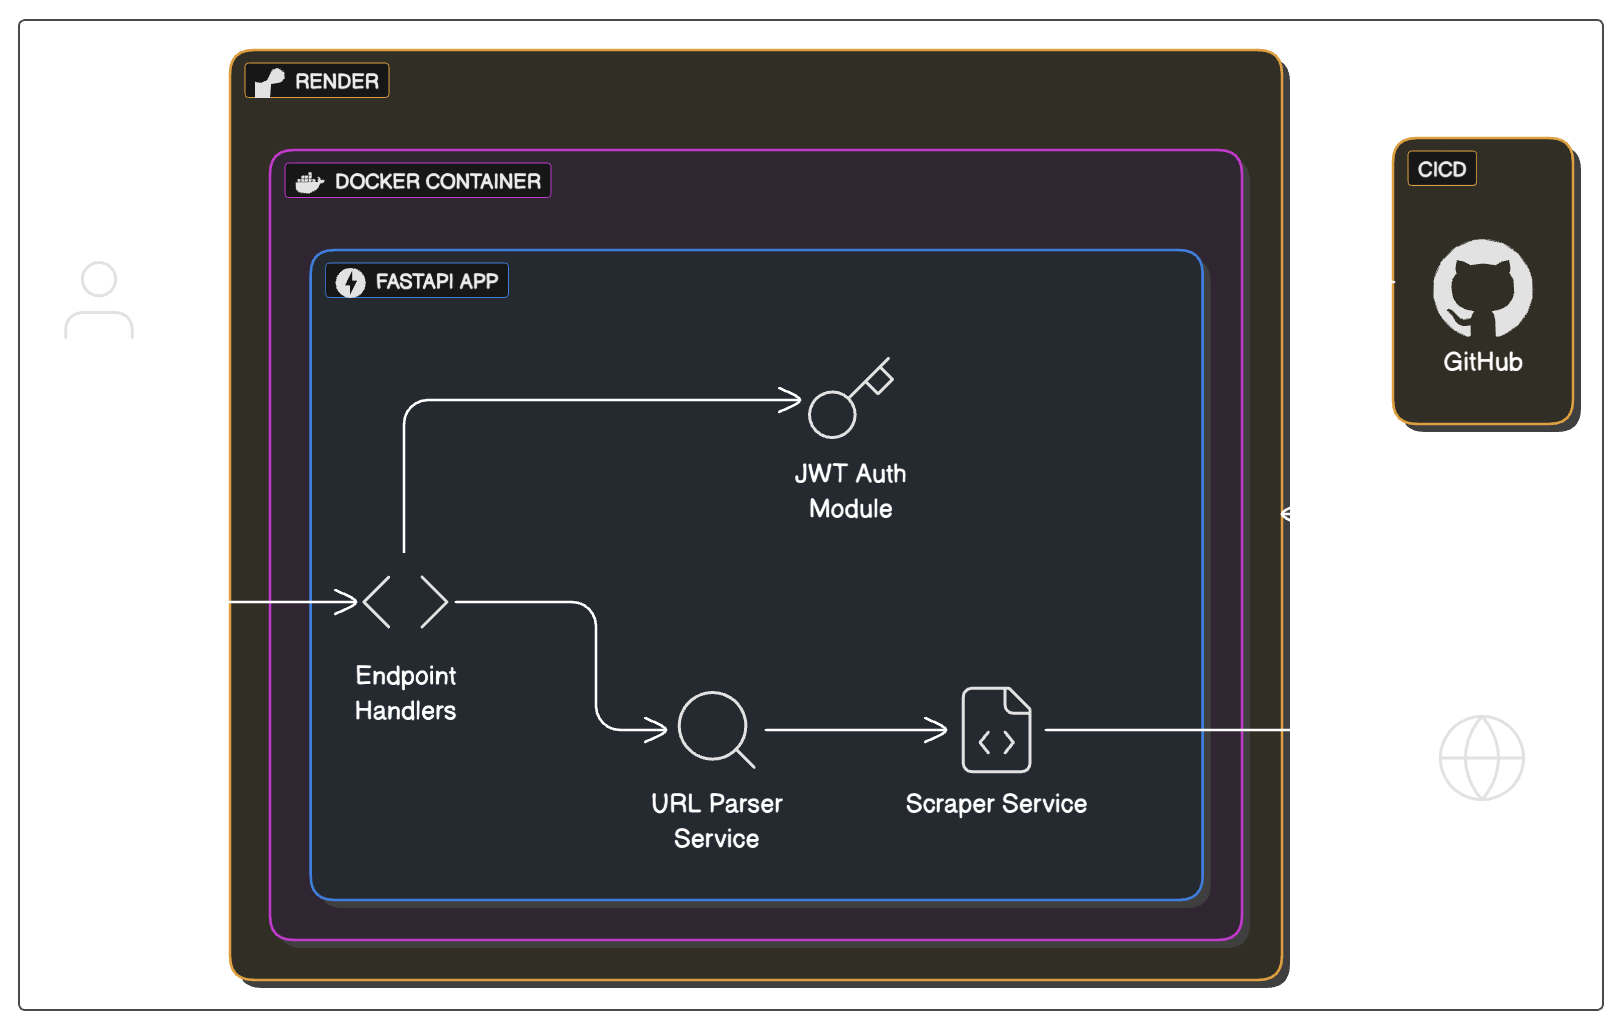
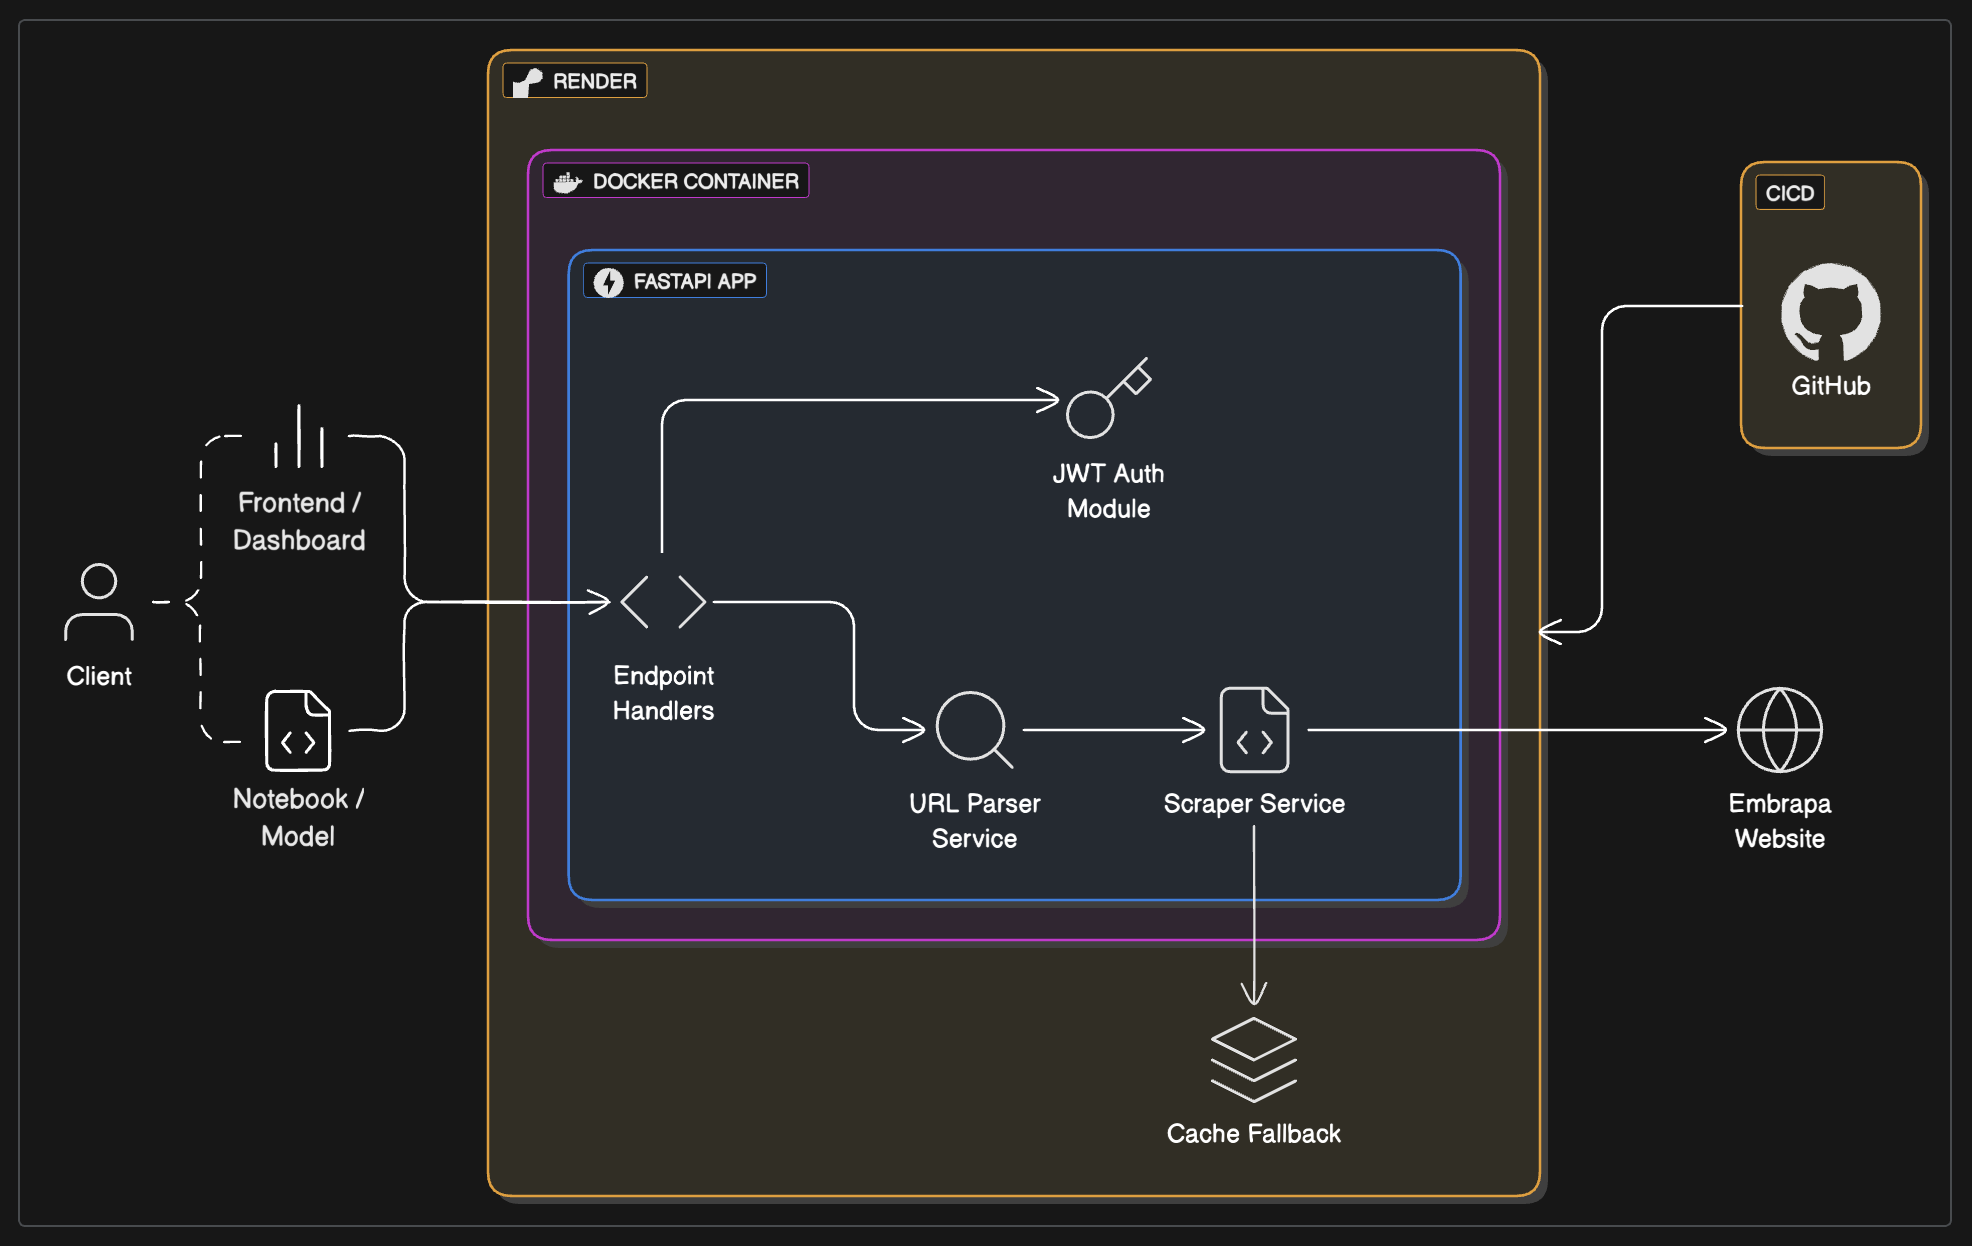
doc: improve README

diff --git a/README.md b/README.md
@@ -3,22 +3,26 @@
 [![Static Badge](https://img.shields.io/badge/video-ededed?style=for-the-badge&logo=youtube&logoColor=red)](https://www.youtube.com)
 [![Static Badge](https://img.shields.io/badge/live-lightgreen?style=for-the-badge&logo=render&label=demo)](https://tech-challenge-one.onrender.com)
 
-This is a FastAPI-based project designed to provide endpoints for authentication and data retrieval related to production, processing, and commercial activities. This project is part of a technical challenge and demonstrates the use of modern Python web development practices.
+## The Problem
+
+This project provides REST API endpoints for authentication and data retrieval concerning production, processing, and commercial activities in vitiviniculture. These endpoints are designed to serve data directly to machine learning models, dashboards, and notebooks.
 
 ## Architecture Diagram
 
 ![Architecture Diagram](./assets/architecture_diagram.png)
 
-### Deployment
+### Tech Stack
 
-The project is deployed as a Docker container to Render, the integration with GitHub allows for automatic deployment on every push to the main branch.
+* **Core API Development:** Python, FastAPI, Pydantic (data validation and settings).
+* **Authentication:** JWT (secure user authentication and authorization).
+* **Infrastructure & Deployment:** Docker (containerization), Poetry (dependency management), Redis (caching), Render (cloud deployment).
+* **Data Acquisition:** BeautifulSoup and Requests (web scraping).
 
 ### User Flow
 
-1. **User Authentication**: The user sends a request to the `/login` endpoint with their credentials.
-2. **Token Generation**: If the credentials are valid, a JWT token is generated and returned to the user.
-3. **Data Retrieval**: The user can use the token to access protected `/embrapa` endpoints.
-4. **Data Processing**: The data is processed and returned in a structured JSON format.
+1.  **Authentication**: Users authenticate by sending credentials to the `/auth/token` endpoint, receiving a JWT in return.
+2.  **Data Access**: The JWT is then used to access and retrieve data from protected `/embrapa` endpoints.
+3.  **JSON Output**: All data is provided in a structured JSON format to be consumed.
 
 ### Services
 
